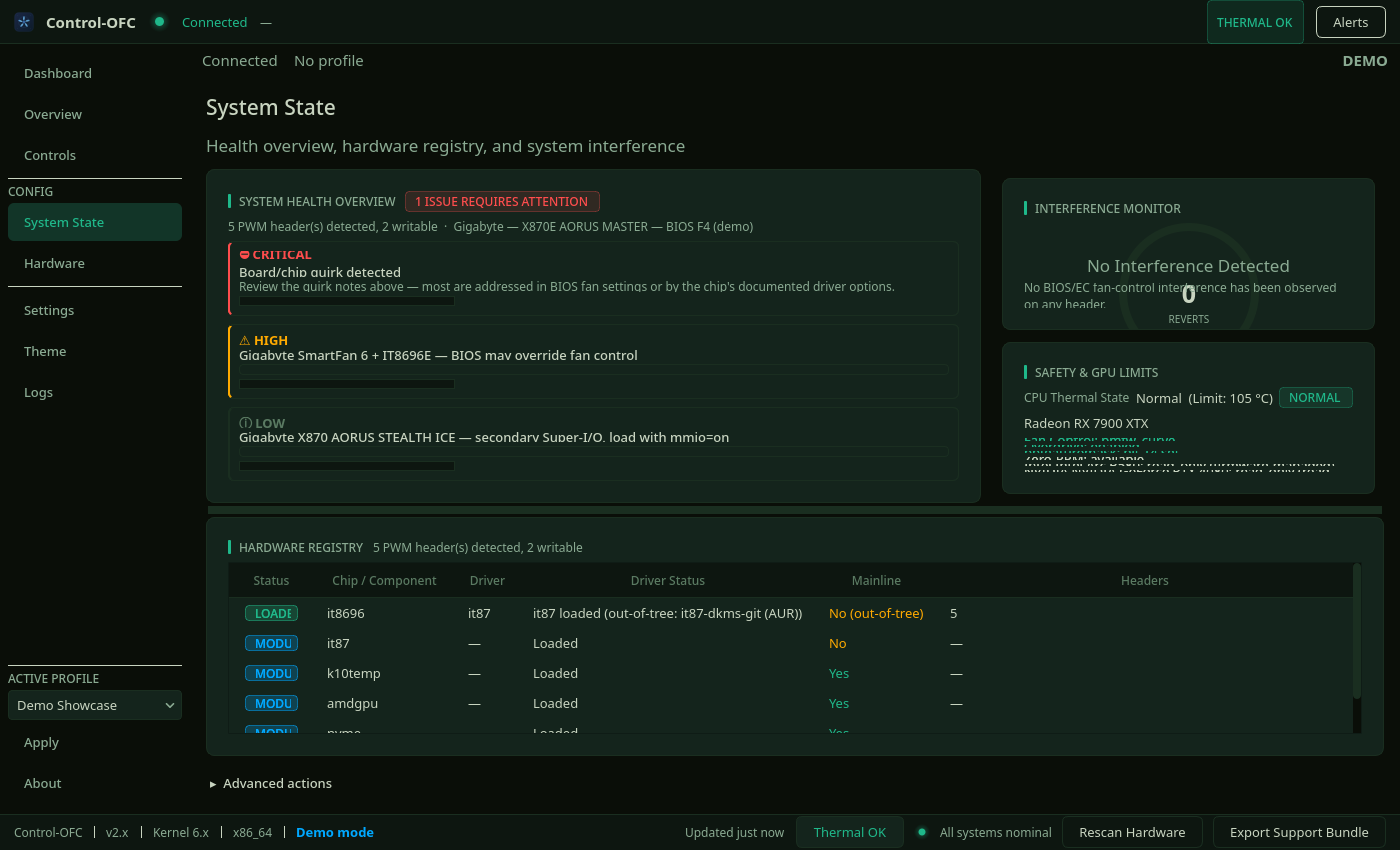
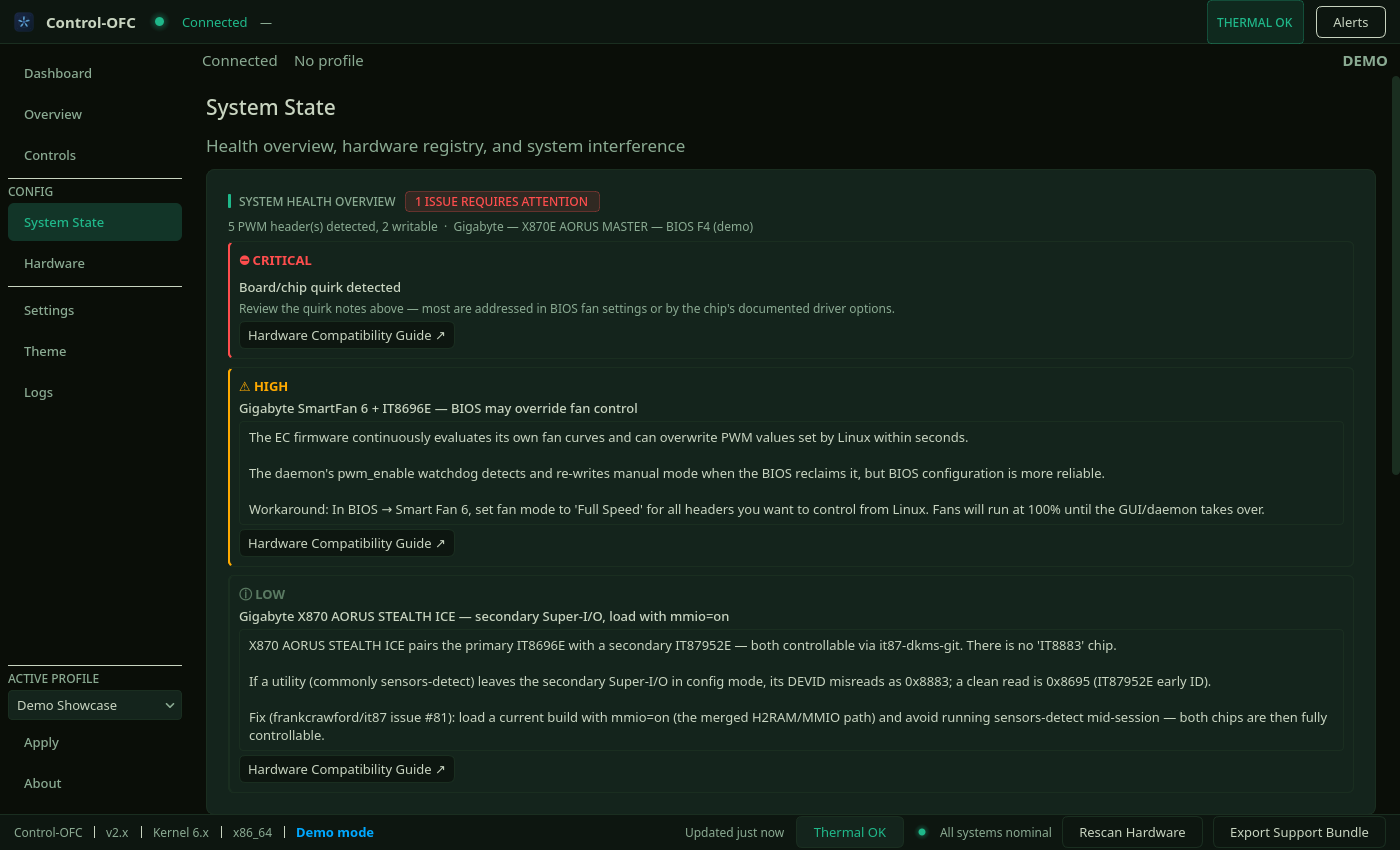
release: v2.46.0
README release line, recaptured screenshots, and the System State manual page.

The manual listed the Interference Monitor and Thermal safety & GPU as
"Detail sections (collapsed by default)". The page has exactly one
CollapsibleSection ("Advanced actions"); those two were already always-visible
cards before this release and are now sidebar cards beside the Hardware
Registry, so the claim was pre-existing drift that this layout change made
doubly wrong. Rewritten to describe the two rows as they are.

Screenshots: 04_system_state (the re-layout) and 01_dashboard (the documented
chart-cursor variant — diff bound-boxed to 1118px in a 21px strip at x1306-1326,
noise, not a UI change).

diff --git a/manual/diagnostics.md b/manual/diagnostics.md
@@ -98,7 +98,9 @@ It leads with the answer and keeps the detail one click away:
 - **Verdict banner** — a green *✓ System ready* line, or an amber/red *⚠ N issue(s) need attention* — always on screen.
 - **Issue checklist** — one row per detected problem, each with a colour-coded severity badge (**CRITICAL** / **WARN**, icon + word + colour), a one-line **fix**, and a clickable link to the relevant documentation. A healthy system shows a single *✓ No issues detected* line. This is the fastest path from "something is wrong" to "here is what to change".
 - **Alerts & advisories** — blocking alerts (driver-module collisions, active BIOS interference) and informational notices (dual-chip setup, vendor quirks, ACPI conflicts) appear here when relevant. Vendor quirks render as per-advisory rows with a four-tier severity badge (**CRITICAL** red / **HIGH** orange / **MEDIUM** amber / **INFO** blue) and a collapsible detail. Safety-critical alerts are always visible — never hidden behind a collapse.
-- **Detail sections** (collapsed by default, expand on click): **Detected hardware** (chip + kernel-module tables), **BIOS interference detail** (shown only when the BIOS has been reclaiming fan control), the **Interference Monitor**, **Thermal safety & GPU**, **Guidance & documentation**, and **PWM control test** — the **Test PWM Control** / **Verify All Writable** buttons, plus **Test GPU Fan Control** and **Restore GPU Fan to Automatic** when a writable AMD GPU is present.
+- **Hardware Registry** — the chip/driver table (Status, Chip / Component, Driver, Driver Status, Mainline, Headers), always visible below the health report. It is the dominant element of the page's second row, taking about three quarters of the width; drag the divider on its right to give it more or less.
+- **Interference Monitor** and **Safety & GPU Limits** — always-visible cards stacked in the column beside the Hardware Registry. The Interference Monitor carries the BIOS-reclaim gauge and names the contended header when the BIOS has been reclaiming fan control; Safety & GPU Limits carries the CPU thermal state, the GPU rows, and the firmware speed range. Neither is hidden behind a collapse — the page keeps its safety-relevant readings on screen.
+- **Advanced actions** (the page's one collapsible section, collapsed by default): the **Test PWM Control** / **Verify All Writable** buttons, plus **Test GPU Fan Control** and **Restore GPU Fan to Automatic** when a writable AMD GPU is present.
 - **Restore GPU Fan to Automatic** hands the GPU fan back to the firmware's default curve — use it to undo a static GPU speed set this session without restarting the daemon. It is disabled (with the reason in its tooltip) while an active profile is driving the GPU fan: remove the GPU from its fan role or deactivate the profile first.
 - **Rescan Hardware** asks the daemon to re-enumerate hwmon sensors and PWM headers — use it right after loading a sensor kernel module (for example following a driver install). New sensors appear within a couple of poll cycles; brand-new motherboard fan-*control* hardware still requires a daemon restart. An **OpenFan controller is the exception** (daemon 2.18.0+): the same button also asks the daemon to look for one, and if it finds one it is adopted immediately — the result line names the port it was found on, and says nothing about restarting.
 - **Open Full Report ↗** opens the complete readiness report in its own resizable window; every link in it is clickable.

diff --git a/README.md b/README.md
@@ -1,6 +1,6 @@
 # Control-OFC GUI
 
-**Latest release:** v2.45.0 — 2026-08-23. Pairs with `control-ofc-daemon` ≥ v2.11.0 (v2.16.0 or newer for the Settings ▸ Daemon Configuration card, v2.17.0 for the Dashboard's fan-control-engine health banner, v2.18.0 for Rescan Hardware to also look for an OpenFan controller, v2.21.0 for the Controls page's "Not controlled" badge, v2.22.0 for the live output figure on each Controls card and the Dashboard's unresolved-control warning; all stand down gracefully on older daemons). See [`CHANGELOG.md`](CHANGELOG.md) for the full history.
+**Latest release:** v2.46.0 — 2026-08-24. Pairs with `control-ofc-daemon` ≥ v2.11.0 (v2.16.0 or newer for the Settings ▸ Daemon Configuration card, v2.17.0 for the Dashboard's fan-control-engine health banner, v2.18.0 for Rescan Hardware to also look for an OpenFan controller, v2.21.0 for the Controls page's "Not controlled" badge, v2.22.0 for the live output figure on each Controls card and the Dashboard's unresolved-control warning; all stand down gracefully on older daemons). See [`CHANGELOG.md`](CHANGELOG.md) for the full history.
 
 Desktop fan control interface for Linux. Communicates with the [`control-ofc-daemon`](https://github.com/Plan-B-Development/control-ofc-daemon) service to monitor temperatures, manage fan speeds, and apply custom fan curves.
 
